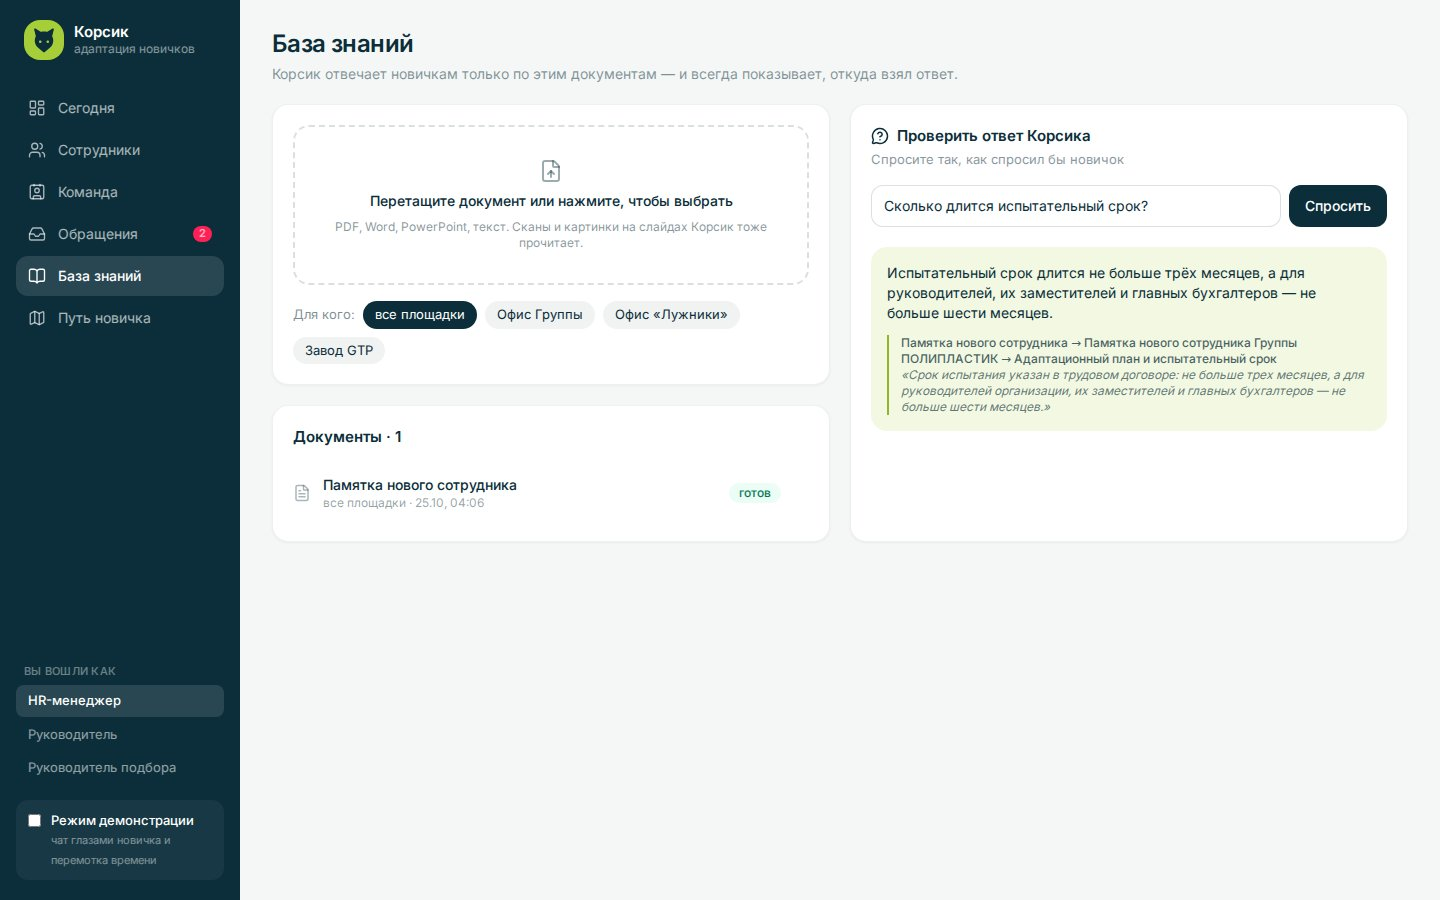
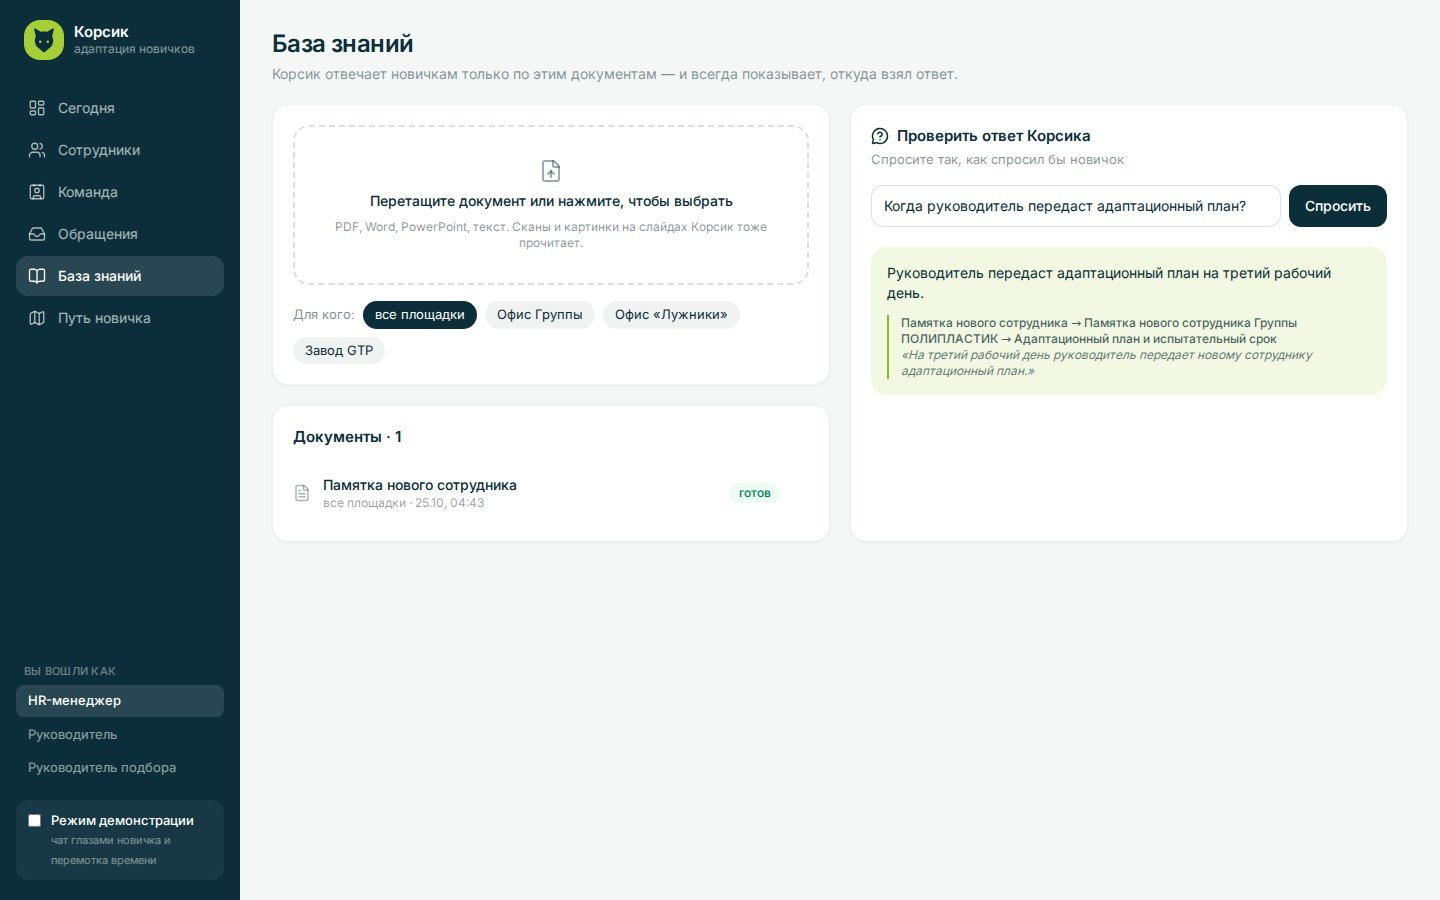
Переснять «Базу знаний» под итоговые примеры

Changed region(s): [[0.5938, 0.28, 0.9688, 0.4978], [0.625, 0.2178, 0.875, 0.2489], [0.125, 0.2489, 0.1562, 0.28]]

diff --git a/README.md b/README.md
@@ -117,7 +117,7 @@ uv run python eval/run_eval.py --e2e
 
 **База знаний:** проверка ответа Корсика с цитатой из документа.
 
-![«База знаний»: памятка обработана, ответ о сроке испытания с цитатой из памятки](docs/screenshots/knowledge.jpg)
+![«База знаний»: памятка обработана, ответ об адаптационном плане с цитатой из памятки](docs/screenshots/knowledge.jpg)
 
 Другие экраны: [«Мои новички» руководителя](docs/screenshots/manager.jpg), [«Настроения»](docs/screenshots/mood.jpg).
 
